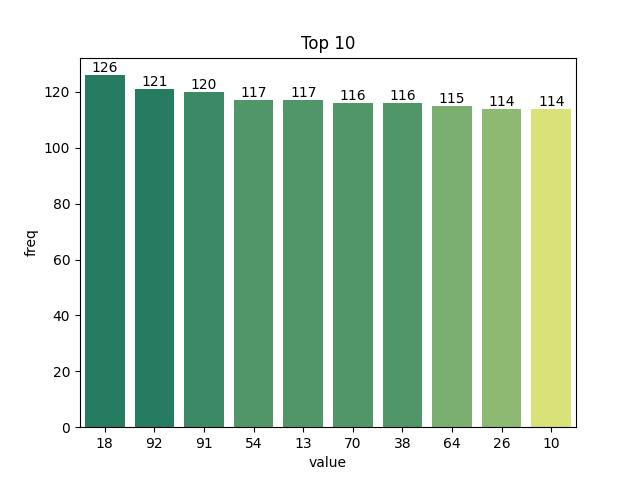
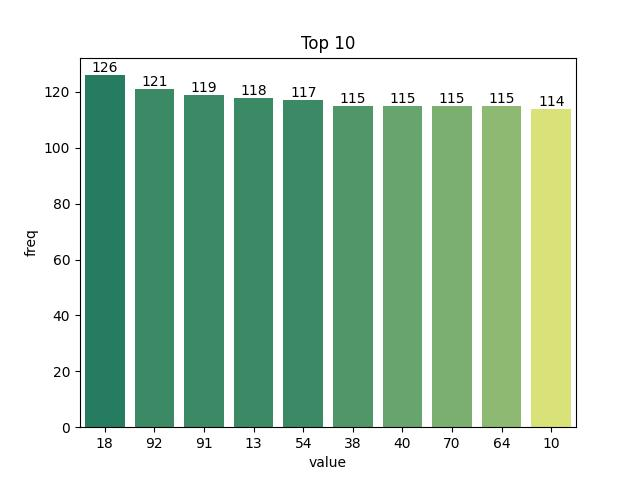
Updated 2023-01-14

diff --git a/README.md b/README.md
@@ -4,13 +4,13 @@ Using GitHub Action to automatically fetch and analyze results of the Vietnam lo
 
 | Lotery      | Loto |
 | :-----------: | :-----------: |
-| <table><tr><td>Date</td><td>13-01-2023</td></tr><tr><td>Special</td><td>60762</td></tr><tr><td>First</td><td>70413</td></tr><tr><td>Second</td><td>94856, 73874</td></tr><tr><td rowspan="2">Third</td><td>38562, 54962, 09294</td></tr><tr><td>88168, 03998, 21450</td></tr><tr><td>Fourth</td><td>8234, 7644, 3492, 0818</td></tr><tr><td rowspan="2">Fifth</td><td>1114, 2556, 1891</td></tr><tr><td>8732, 9010, 4068</td></tr><tr><td>Sixth</td><td>962, 160, 238</td></tr><tr><td>Seventh</td><td>70, 73, 54, 66</td></tr></table> | <table><tr><td>First</td><td>Last</td></tr><tr><td>0</td><td>-</td></tr><tr><td>1</td><td>0, 3, 4, 8</td></tr><tr><td>2</td><td>-</td></tr><tr><td>3</td><td>2, 4, 8</td></tr><tr><td>4</td><td>4</td></tr><tr><td>5</td><td>0, 4, 6, 6</td></tr><tr><td>6</td><td>0, 2, 2, 2, 2, 6, 8, 8</td></tr><tr><td>7</td><td>0, 3, 4</td></tr><tr><td>8</td><td>-</td></tr><tr><td>9</td><td>1, 2, 4, 8</td></tr></table> |
+| <table><tr><td>Date</td><td>14-01-2023</td></tr><tr><td>Special</td><td>62940</td></tr><tr><td>First</td><td>27086</td></tr><tr><td>Second</td><td>84830, 42992</td></tr><tr><td rowspan="2">Third</td><td>26177, 28240, 86842</td></tr><tr><td>54934, 53016, 11166</td></tr><tr><td>Fourth</td><td>1213, 7375, 8375, 1727</td></tr><tr><td rowspan="2">Fifth</td><td>0737, 3018, 1279</td></tr><tr><td>2435, 5696, 5434</td></tr><tr><td>Sixth</td><td>949, 318, 656</td></tr><tr><td>Seventh</td><td>02, 34, 82, 81</td></tr></table> | <table><tr><td>First</td><td>Last</td></tr><tr><td>0</td><td>2</td></tr><tr><td>1</td><td>3, 6, 8, 8</td></tr><tr><td>2</td><td>7</td></tr><tr><td>3</td><td>0, 4, 4, 4, 5, 7</td></tr><tr><td>4</td><td>0, 0, 2, 9</td></tr><tr><td>5</td><td>6</td></tr><tr><td>6</td><td>6</td></tr><tr><td>7</td><td>5, 5, 7, 9</td></tr><tr><td>8</td><td>1, 2, 6</td></tr><tr><td>9</td><td>2, 6</td></tr></table> |
 
 <h2>Analysis of one-year results</h2>
 
-Max: 126. Min: 72.
+Max: 126. Min: 73.
 
-Mean: 97.47. Standard deviation: 11.46.
+Mean: 97.47. Standard deviation: 11.37.
 
 <h3>Detail</h3>
 
